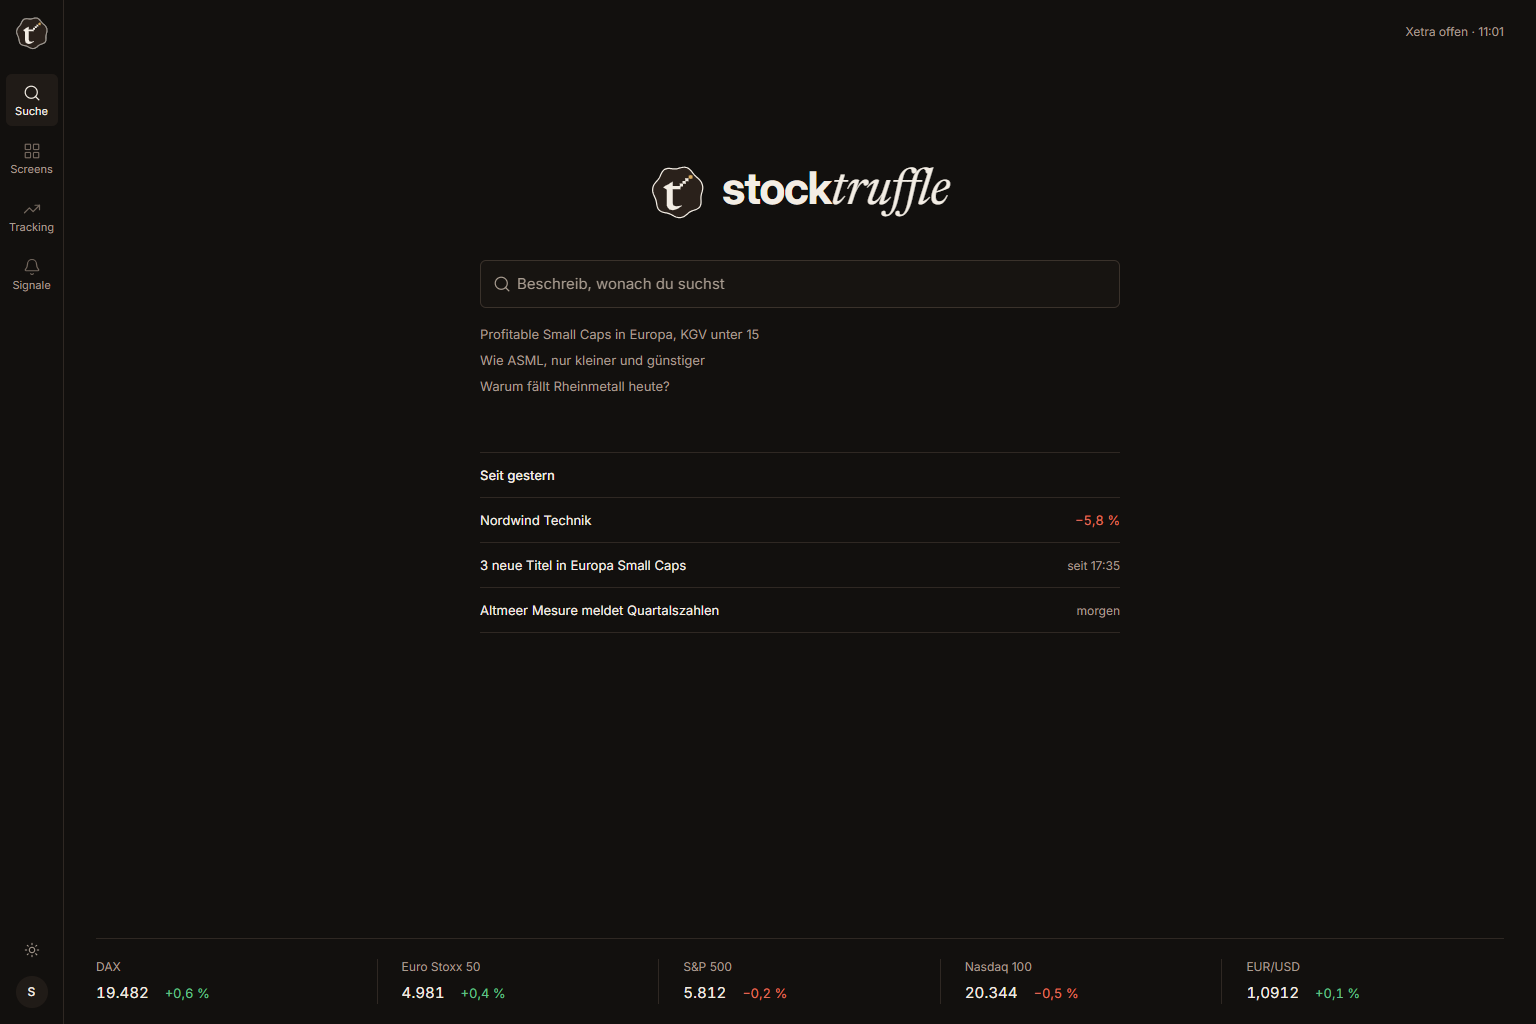
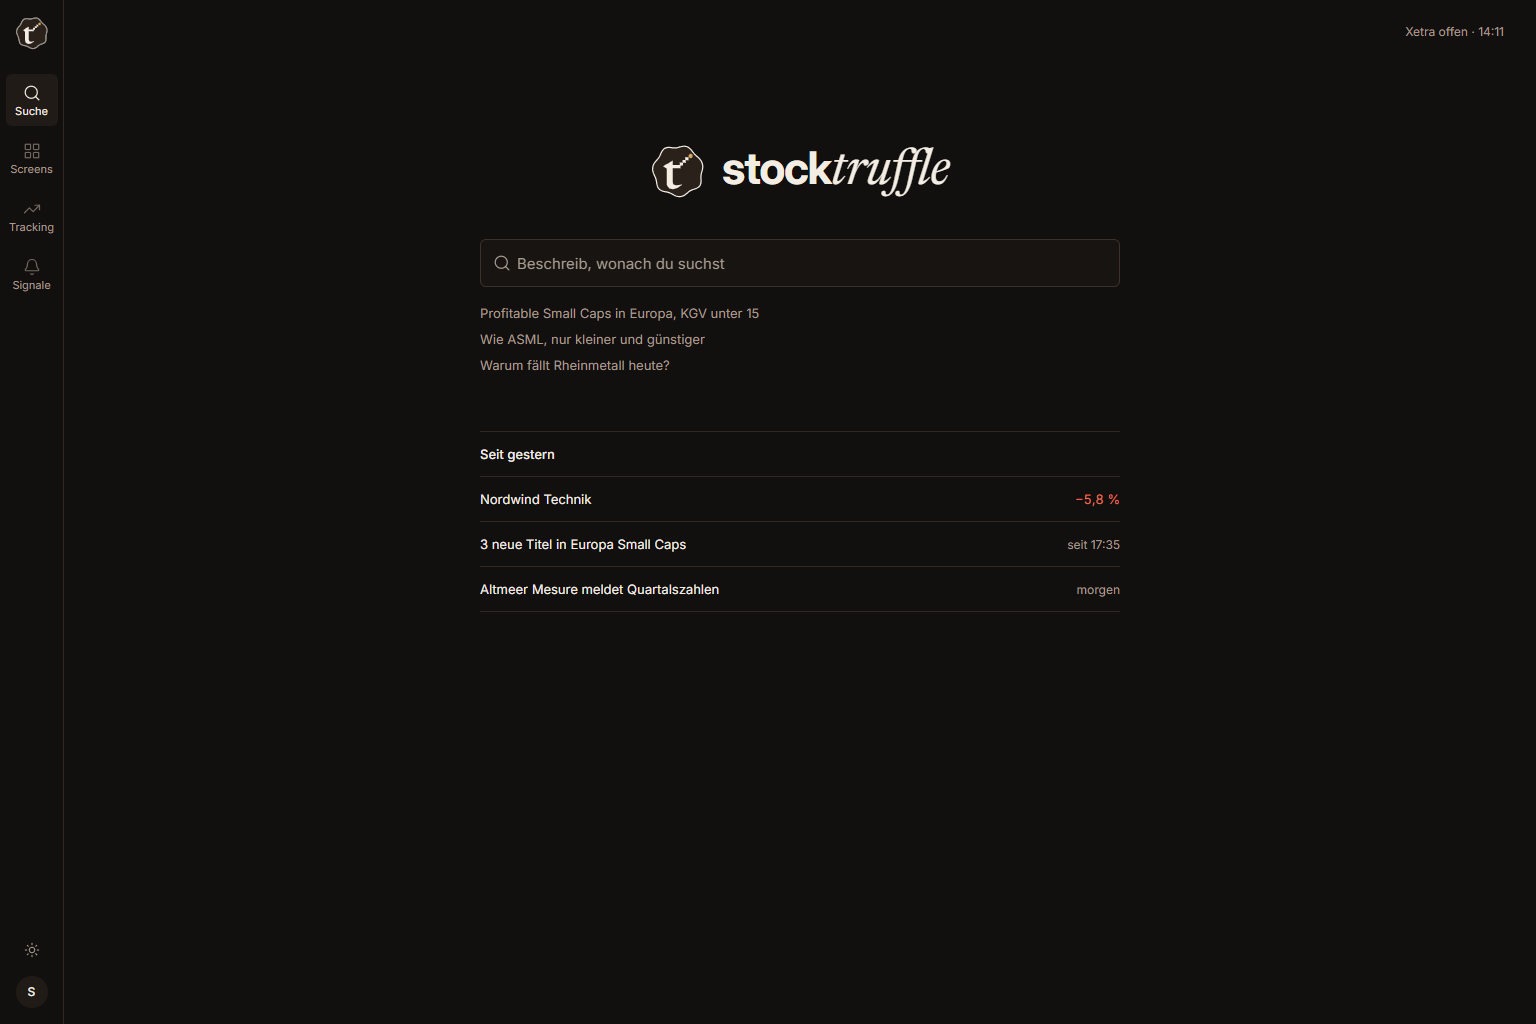
Keep the start page to one screen without the market line

diff --git a/apps/web/src/routes/_app/index.tsx b/apps/web/src/routes/_app/index.tsx
@@ -4,10 +4,8 @@ import { Lockup } from "@/components/brand/logo"
 import { isQuestion } from "@/features/omnibox/is-question"
 import { SearchField } from "@/features/omnibox/search-field"
 import { BriefingList } from "@/features/start/briefing-list"
-import { MarketLine } from "@/features/start/market-line"
 import { MarketStatus } from "@/features/start/market-status"
 import { briefing, searchExamples } from "@/prototype/fixtures/briefing"
-import { marketQuotes } from "@/prototype/fixtures/market"
 
 export const Route = createFileRoute("/_app/")({ component: Start })
 
@@ -29,10 +27,11 @@ function Start() {
         })
 
   return (
-    <div className="relative flex min-h-full flex-col px-8">
+    // The start page is one screen: it never scrolls.
+    <div className="relative flex h-full flex-col overflow-hidden px-8">
       <MarketStatus className="absolute top-6 right-8 text-xs text-muted-foreground" />
 
-      <div className="mx-auto flex w-full max-w-[640px] flex-col pt-[16vh]">
+      <div className="mx-auto flex w-full max-w-[640px] flex-col pt-[14vh]">
         <Lockup size={56} className="self-center" />
         <SearchField
           size="large"
@@ -54,10 +53,6 @@ function Start() {
           ))}
         </ul>
         <BriefingList items={briefing} className="mt-14" />
-      </div>
-
-      <div className="mt-auto pt-16">
-        <MarketLine quotes={marketQuotes} />
       </div>
     </div>
   )
